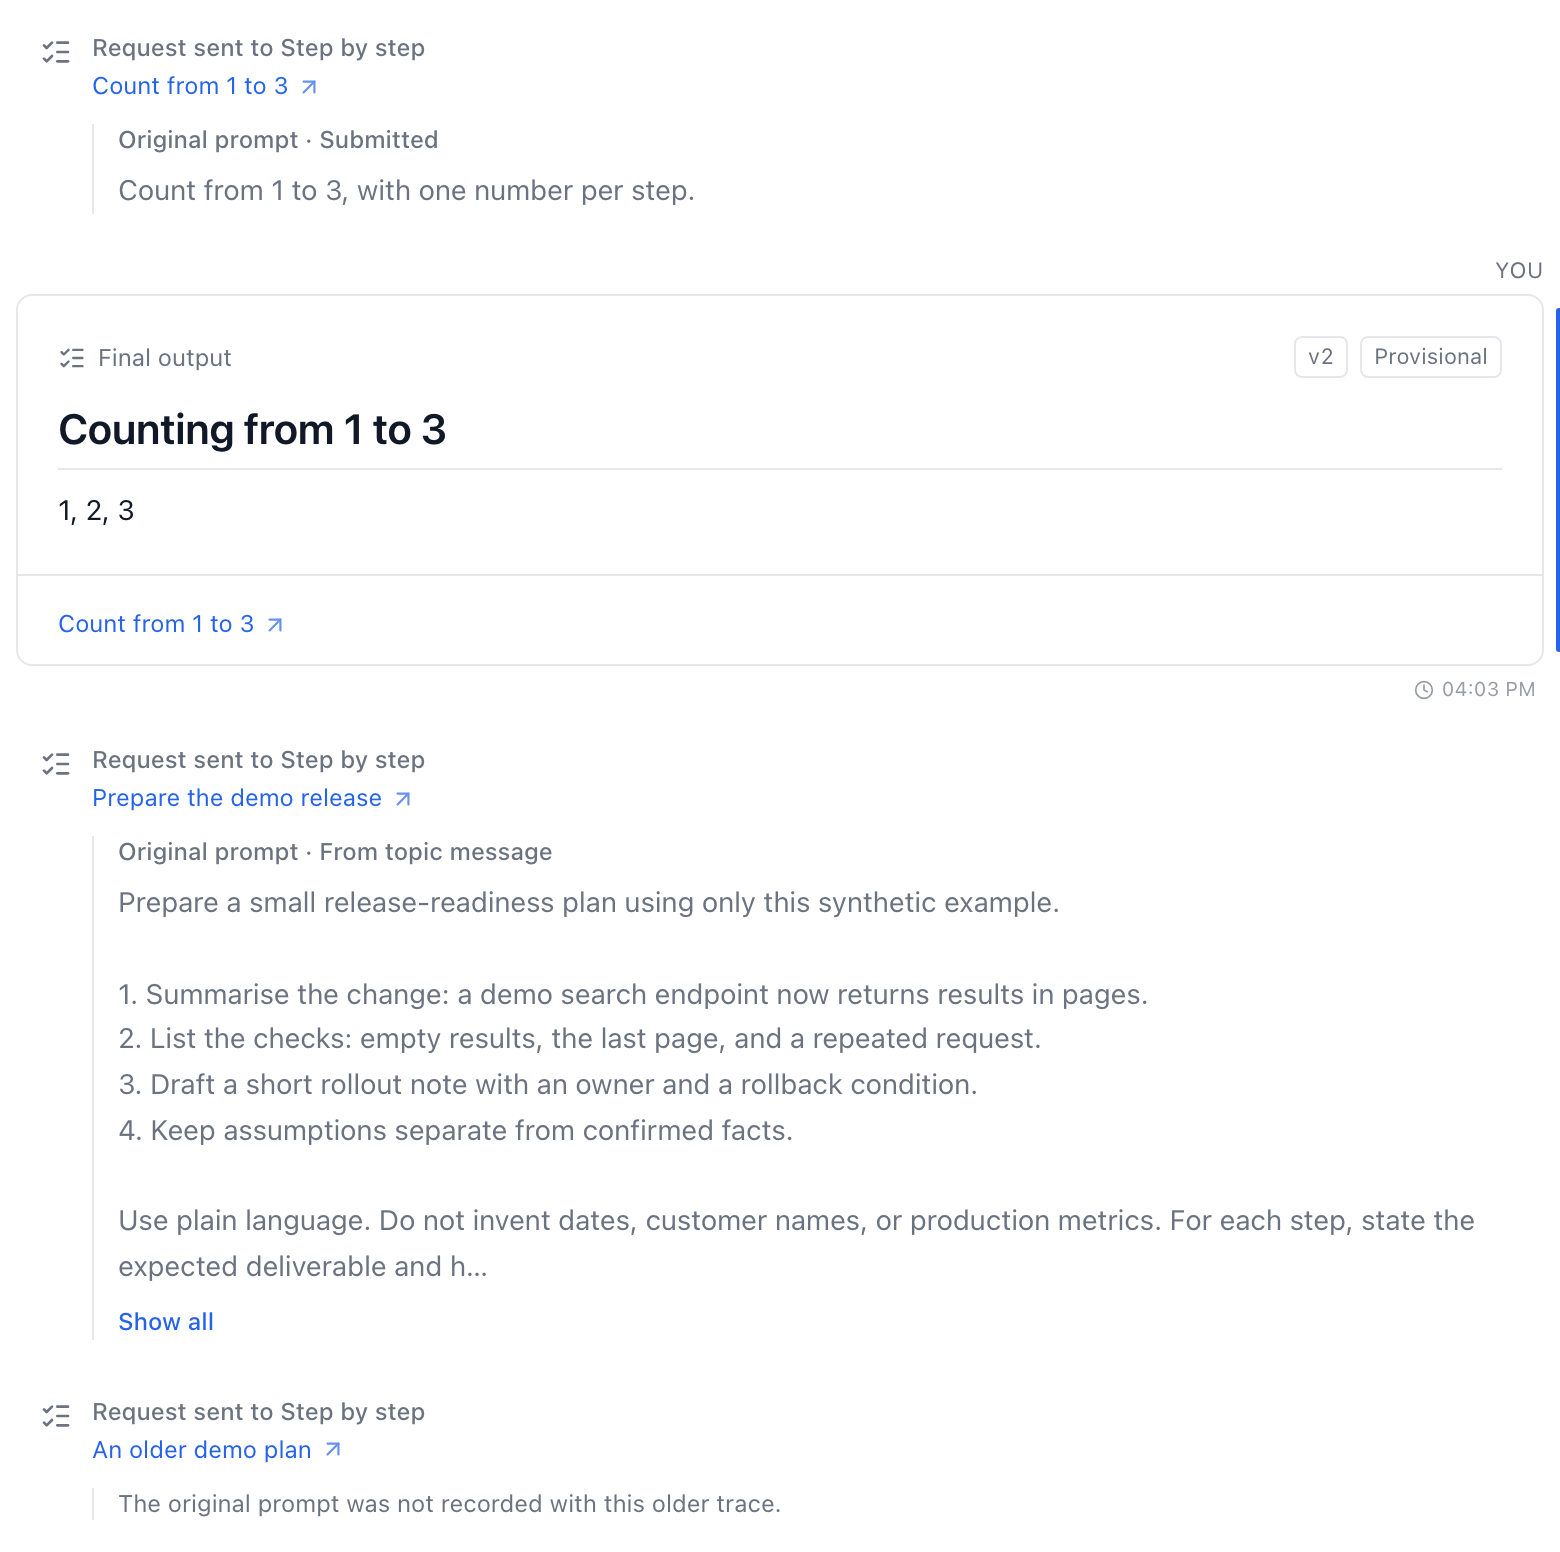
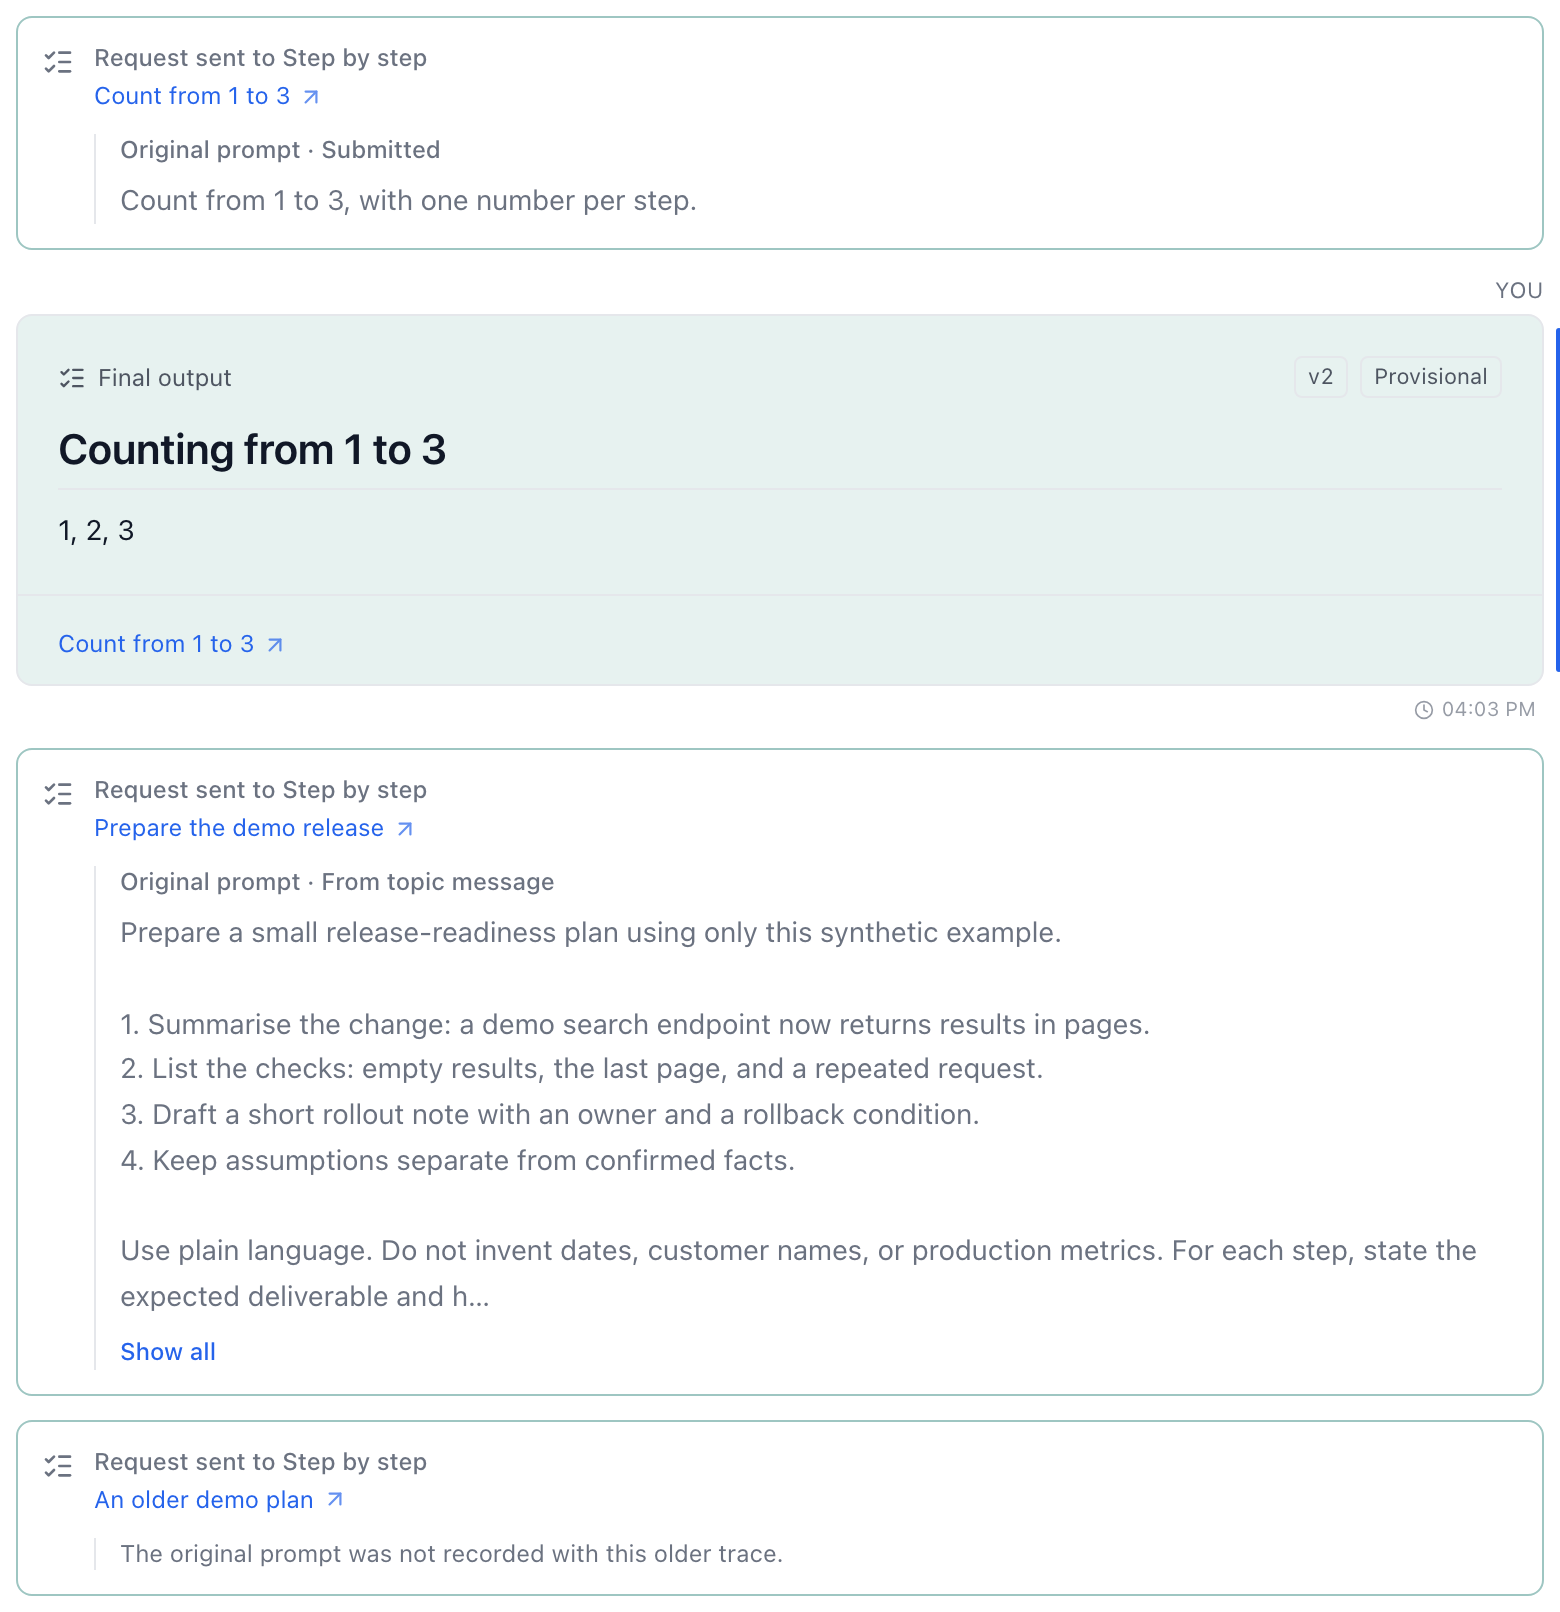
Use Step by step colours for receipt borders and output backgrounds
Outline the complete request receipt, including its heading and prompt, in the existing feature accent. Add a soft matching document tint, retain accessible text contrast, and update regressions, docs and both screenshot themes.

diff --git a/scripts/test_step_prompt_traces.js b/scripts/test_step_prompt_traces.js
@@ -201,10 +201,21 @@ async function run() {
           assert.equal(await receipt.locator("svg.lucide-list-checks").count(), 1);
           const style = await receipt.evaluate((element) => {
             const css = getComputedStyle(element);
-            return { background: css.backgroundColor, border: css.borderTopWidth, overflow: element.scrollWidth > element.clientWidth + 1 };
+            const probe = element.ownerDocument.createElement("span");
+            probe.style.color = "color-mix(in oklab, var(--section-accent) 40%, var(--border))";
+            element.append(probe);
+            const featureBorder = getComputedStyle(probe).color;
+            probe.remove();
+            return {
+              background: css.backgroundColor,
+              borders: [css.borderTopWidth, css.borderRightWidth, css.borderBottomWidth, css.borderLeftWidth],
+              borderColor: css.borderTopColor, featureBorder,
+              overflow: element.scrollWidth > element.clientWidth + 1,
+            };
           });
           assert.equal(style.background, "rgba(0, 0, 0, 0)", "receipts must not become blue document cards");
-          assert.equal(style.border, "0px");
+          assert.deepEqual(style.borders, ["1px", "1px", "1px", "1px"], "the feature border must surround the entire receipt");
+          assert.equal(style.borderColor, style.featureBorder);
           assert.equal(style.overflow, false, `receipt overflow: ${theme}, ${width}px`);
           const quote = await receipt.getByTestId("step-plan-prompt").evaluate((element) => {
             const css = getComputedStyle(element);
@@ -213,9 +224,12 @@ async function run() {
             element.append(probe);
             const neutral = getComputedStyle(probe).color;
             probe.remove();
-            return { rule: css.borderLeftWidth, color: css.borderLeftColor, neutral };
+            return {
+              borders: [css.borderTopWidth, css.borderRightWidth, css.borderBottomWidth, css.borderLeftWidth],
+              color: css.borderLeftColor, neutral,
+            };
           });
-          assert.equal(quote.rule, "1px");
+          assert.deepEqual(quote.borders, ["0px", "0px", "0px", "1px"]);
           assert.equal(quote.color, quote.neutral);
         }
         for (const document of [filed, earlier]) {
@@ -223,22 +237,42 @@ async function run() {
           const style = await document.evaluate((element) => {
             const css = getComputedStyle(element);
             const probe = element.ownerDocument.createElement("span");
-            probe.style.color = "var(--bg)";
+            probe.style.color = "color-mix(in oklab, var(--section-accent) 12%, var(--bg))";
             element.append(probe);
             const background = getComputedStyle(probe).color;
             probe.style.color = "var(--border)";
             const border = getComputedStyle(probe).color;
             probe.remove();
+            const canvas = element.ownerDocument.createElement("canvas");
+            canvas.width = canvas.height = 1;
+            const context = canvas.getContext("2d");
+            function luminance(color) {
+              context.fillStyle = color;
+              context.fillRect(0, 0, 1, 1);
+              const rgb = [...context.getImageData(0, 0, 1, 1).data].slice(0, 3).map((value) => {
+                const channel = value / 255;
+                return channel <= 0.04045 ? channel / 12.92 : ((channel + 0.055) / 1.055) ** 2.4;
+              });
+              return rgb[0] * 0.2126 + rgb[1] * 0.7152 + rgb[2] * 0.0722;
+            }
+            const surface = luminance(css.backgroundColor);
+            const contrast = [".markdown", '[data-testid="step-plan-note-header"]', "footer button"].map((selector) => {
+              const foreground = luminance(getComputedStyle(element.querySelector(selector)).color);
+              return (Math.max(foreground, surface) + 0.05) / (Math.min(foreground, surface) + 0.05);
+            });
             return {
               background: css.backgroundColor, expectedBackground: background,
               border: css.borderTopColor, expectedBorder: border, borderWidth: css.borderTopWidth,
               overflow: element.scrollWidth > element.clientWidth + 1,
+              contrast,
             };
           });
           assert.equal(style.background, style.expectedBackground);
+          assert.ok((await document.getAttribute("class")).includes("section-steps"), "document tint must use the Step by step section colour");
           assert.equal(style.border, style.expectedBorder);
           assert.equal(style.borderWidth, "1px");
           assert.equal(style.overflow, false, `document overflow: ${theme}, ${width}px`);
+          assert.ok(style.contrast.every((ratio) => ratio >= 4.5), `document text contrast: ${theme}, ${width}px: ${style.contrast}`);
           const bounds = await document.locator(".markdown").boundingBox();
           const footerBounds = await document.getByTestId("step-plan-note-footer").boundingBox();
           assert.ok(footerBounds.y >= bounds.y + bounds.height, "plan link must follow the document");

diff --git a/frontend/src/components/MessageBubble.tsx b/frontend/src/components/MessageBubble.tsx
@@ -271,7 +271,7 @@ export function MessageBubble({ role, content, reasoning, pending, attachments, 
       <div
         className={`relative ${planNote ? "p-4 sm:p-5" : "px-3 py-2"} rounded-lg border ${
           onRetry ? "border-red-500/40" : "border-border"
-        } ${planNote ? "bg-bg" : isUser ? "bg-accent/10" : "bg-surface"} max-w-full ${planNote ? "w-full" : ""}`}
+        } ${planNote ? "section-steps step-plan-document" : isUser ? "bg-accent/10" : "bg-surface"} max-w-full ${planNote ? "w-full" : ""}`}
         data-testid={planNote ? "step-plan-output" : undefined}
       >
         {highlighted && (

diff --git a/frontend/src/components/steps/StepPlanTrace.tsx b/frontend/src/components/steps/StepPlanTrace.tsx
@@ -15,7 +15,7 @@ export function StepPlanTrace({ content }: { content: string }) {
     const long = prompt !== preview;
     return (
       <div
-        className="flex min-w-0 w-full items-start gap-2.5 px-3 py-2 text-sm"
+        className="section-steps step-plan-receipt flex min-w-0 w-full items-start gap-2.5 rounded-lg border px-3 py-3 text-sm"
         data-testid="step-plan-trace"
         data-plan-id={trace.planId}
       >

diff --git a/frontend/src/index.css b/frontend/src/index.css
@@ -189,6 +189,15 @@
   color: var(--section-accent, var(--accent));
 }
 
+.step-plan-document {
+  background-color: color-mix(in oklab, var(--section-accent) 12%, var(--bg));
+  --color-muted: color-mix(in oklab, var(--text) 70%, var(--bg));
+}
+
+.step-plan-receipt {
+  border-color: color-mix(in oklab, var(--section-accent) 40%, var(--border));
+}
+
 html,
 body,
 #root {

diff --git a/website/features/step-by-step.md b/website/features/step-by-step.md
@@ -24,11 +24,13 @@ The ask is copied into the plan, so every later model call is grounded in it —
 plan keeps working even if the topic is edited or deleted. You can edit the plan's ask
 later; its original topic trace stays unchanged.
 
-**The topic keeps the trail.** Starting a plan (with `/steps` or the button) leaves an
+**The topic keeps the trail.** Starting a plan (with `/steps` or the button) leaves a
 quiet **Request sent to Step by step** activity receipt in the topic's discussion, with
 the existing checklist icon, a blue link to the plan and an immutable copy of the
-**original prompt** under a subtle quote rule. Text after `/steps` is the submitted ask (without the
-command prefix); a bare `/steps` or the topic button uses the latest non-empty user ask
+**original prompt** under a subtle quote rule. A thin outline in the feature's teal
+colour surrounds the whole receipt, including its heading, link and prompt.
+Text after `/steps` is the submitted ask (without the command prefix); a bare `/steps`
+or the topic button uses the latest non-empty user ask
 and labels the snapshot **From topic message**. The receipt records the full effective text,
 not a reconstruction from the plan's later ask.
 
@@ -38,8 +40,9 @@ Prompt text is shown literally, so Markdown, HTML and plan-like headers remain p
 the prompt rather than changing the receipt. Older link-only traces still open their plans
 and explain that no original prompt was recorded; they are not backfilled from a mutable ask.
 
-Returned **Final output** notes have a different role: a neutral bordered document whose
-Markdown content leads, with quiet checklist metadata and version/provisional labels.
+Returned **Final output** notes have a different role: a bordered Markdown document with a
+soft Step by step teal background matching the receipt outline, distinct from ordinary
+discussion. Its content leads, with quiet checklist metadata and version/provisional labels.
 The plan link sits in the document footer, without repeating its title above a heading
 already supplied by the output. The original prompt remains secondary and directly readable.
 
@@ -202,7 +205,7 @@ Restoring an older version only moves the *current* marker, and saving a text th
 earlier version points back at it, so neither adds a duplicate. When you **Send to topic**, the
 version that was filed gets a green **posted** badge in the history and next to the version
 number, and the note in the topic names it (*final output v2*). In the topic the note is a
-neutral document with quiet **Final output** metadata, the version and, when it applies,
+softly teal-tinted document with quiet **Final output** metadata, the version and, when it applies,
 a *Provisional* label; the plan title links back to the plan from its footer. Later versions don't move the
 badge: it stays on the version that was actually posted.
 

diff --git a/CHANGELOG.md b/CHANGELOG.md
@@ -17,8 +17,10 @@ are the per-version history; releasing does not rewrite this file.
 
 - **Step by step: a quiet request receipt, then a clear document.** Topic
   creation traces now show *Request sent to Step by step*, a blue plan link
-  and the original prompt under a neutral quote rule, rather than a blue card.
-  Returned final outputs use a neutral document surface, understated version
+  and the original prompt under a quote rule, with a thin feature-coloured
+  border around the entire receipt rather than a blue card.
+  Returned final outputs use a soft Step by step teal-tinted document surface
+  to stand apart from ordinary discussion, understated version
   and provisional metadata, and a footer plan link so their Markdown content
   leads without a duplicated title. Both retain the existing checklist icon;
   immutable prompt snapshots, expansion, legacy messages and output history
